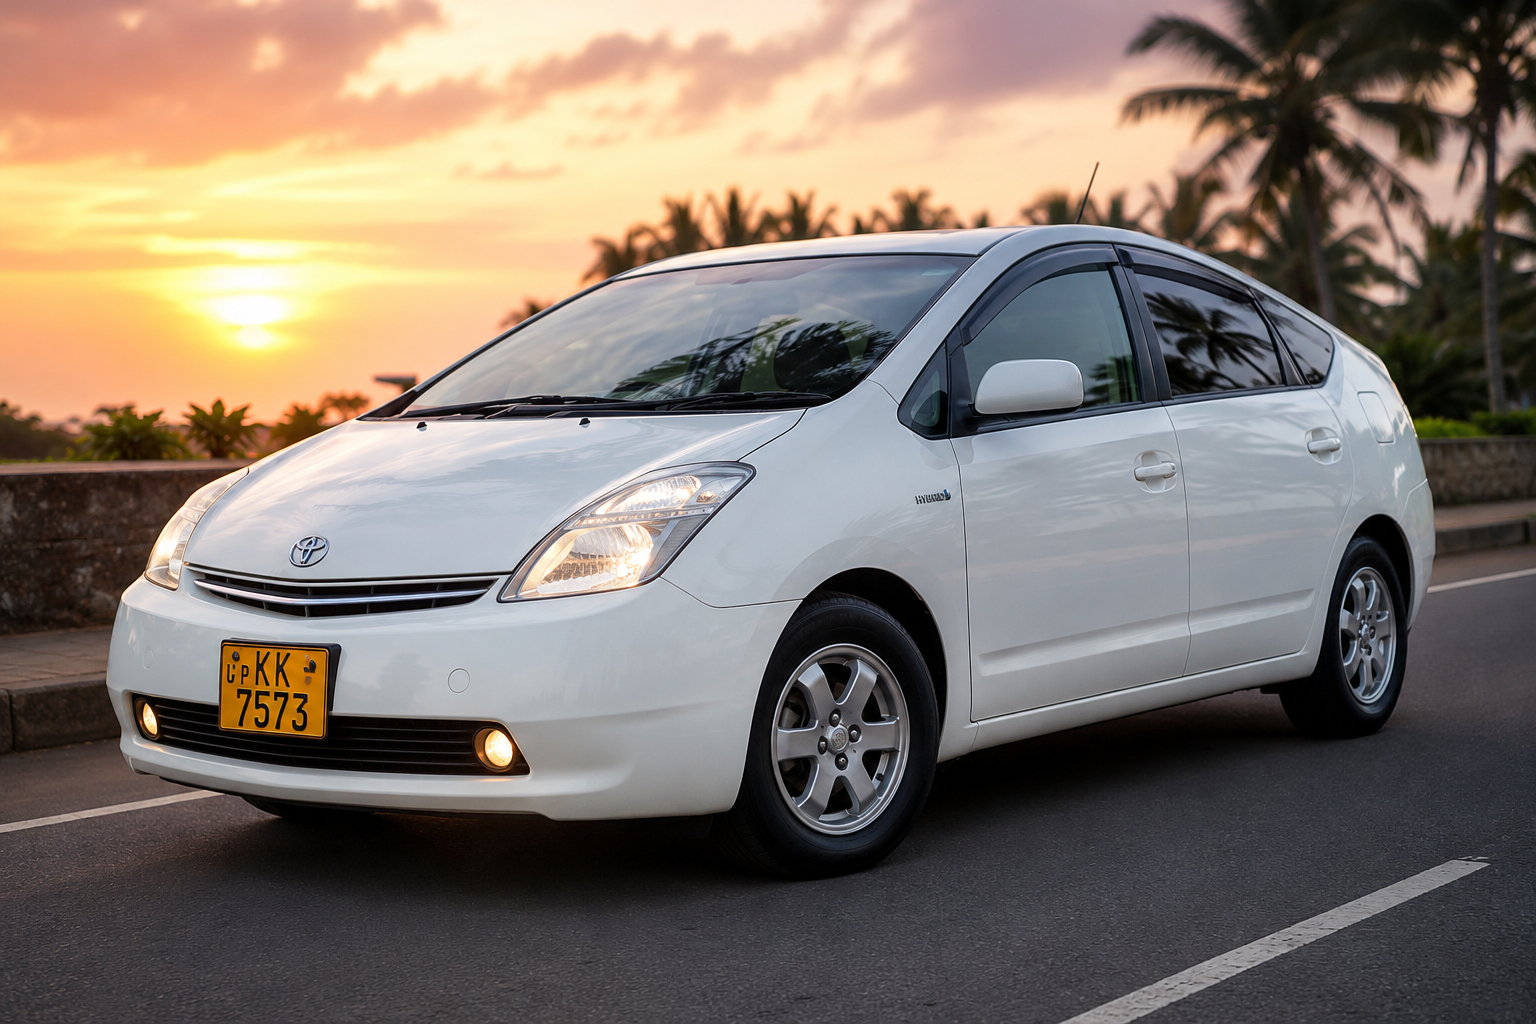
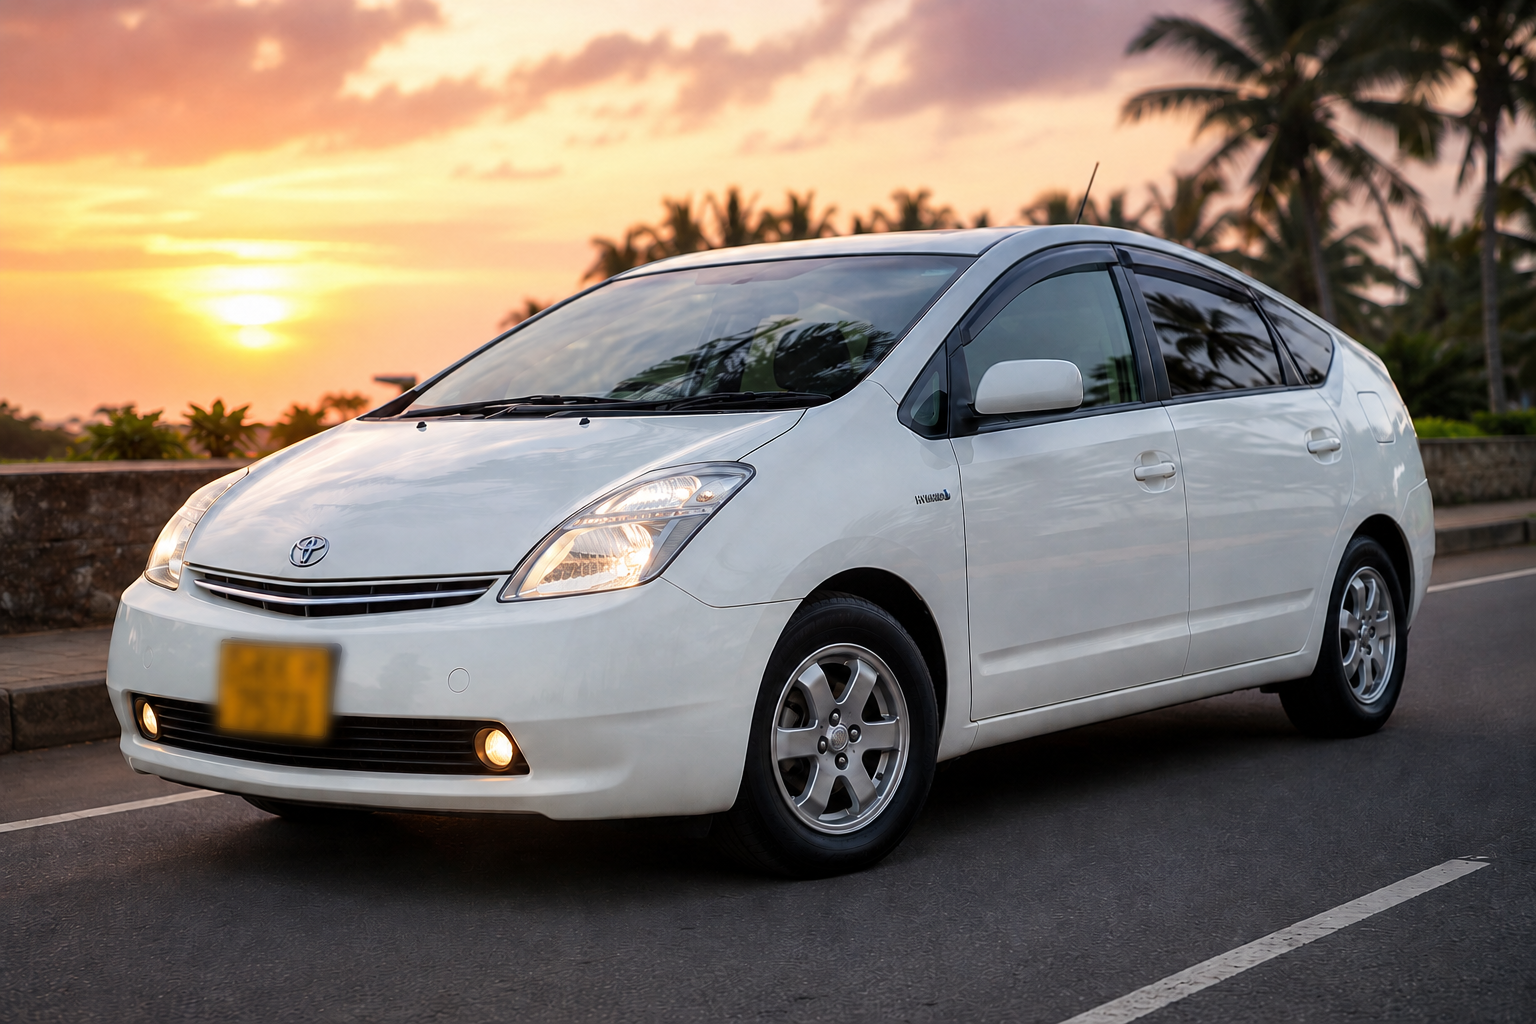
updated reviews

diff --git a/src/components/Testimonials.jsx b/src/components/Testimonials.jsx
@@ -1,82 +1,162 @@
+import { motion } from "framer-motion";
+import { Star } from "lucide-react";
+
 import customer1 from "../assets/customer1.jpeg";
 import customer2 from "../assets/customer2.jpeg";
+import customer3 from "../assets/customer3.jpg";
+import customer4 from "../assets/customer4.jpg";
 
-
-const reviews = [
+const testimonials = [
   {
-    name: "James Wilson",
+    name: "John Smith",
+    country: "Canada",
     image: customer1,
-    text: "Amazing airport pickup and very friendly driver. Highly recommended!",
+    review:
+      "Professional driver and excellent airport pickup experience. Very comfortable ride and great communication.",
   },
 
   {
-    name: "Sophia Brown",
+    name: "Emily Johnson",
+    country: "Germany",
     image: customer2,
-    text: "The Nilaveli tour experience was unforgettable and safe.",
+    review:
+      "Clean vehicle, smooth ride and very friendly service. Highly recommend for Sri Lanka travel.",
   },
 
+  {
+    name: "Daniel Roberts",
+    country: "United Kingdom",
+    image: customer3,
+    review:
+      "Amazing service from start to finish. The vehicle was spotless, comfortable, and always on time.",
+  },
+
+  {
+    name: "Sophia Williams",
+    country: "Australia",
+    image: customer4,
+    review:
+      "Very friendly driver and excellent communication throughout our trip. We felt safe and enjoyed every destination.",
+  },
 ];
 
 export default function Testimonials() {
   return (
-    <section className="py-24 px-6 bg-[#031926]">
+    <section className="relative py-20 sm:py-24 md:py-28 px-4 sm:px-6 overflow-hidden bg-gradient-to-br from-[#02131f] via-[#03263d] to-[#02131f]">
 
-      <div className="max-w-7xl mx-auto">
+      {/* GLOWS */}
+      <div className="absolute top-0 left-0 w-[300px] h-[300px] bg-cyan-400/20 blur-[120px] rounded-full" />
 
-        {/* Heading */}
-        <div className="text-center mb-16">
+      <div className="absolute bottom-0 right-0 w-[300px] h-[300px] bg-yellow-400/20 blur-[120px] rounded-full" />
 
-          <p className="text-yellow-400 uppercase tracking-[5px] mb-4">
-            Testimonials
+      <div className="relative z-10 max-w-7xl mx-auto">
+
+        {/* HEADING */}
+        <motion.div
+          initial={{ opacity: 0, y: 60 }}
+          whileInView={{ opacity: 1, y: 0 }}
+          viewport={{ once: true }}
+          transition={{ duration: 0.8 }}
+          className="text-center mb-14 sm:mb-20"
+        >
+
+          <p className="text-cyan-400 uppercase tracking-[4px] sm:tracking-[6px] mb-4 text-xs sm:text-sm font-semibold">
+            Customer Reviews
           </p>
 
-          <h2 className="text-4xl md:text-6xl font-black text-white">
-            Happy Travelers
+          <h2 className="text-3xl sm:text-5xl md:text-6xl font-black text-white leading-tight">
+            What Our Clients Say
           </h2>
 
-        </div>
+        </motion.div>
 
-        {/* Cards */}
-        <div className="grid md:grid-cols-3 gap-8">
+        {/* GRID */}
+        <div className="grid grid-cols-1 sm:grid-cols-2 gap-6 sm:gap-8">
 
-          {reviews.map((review, index) => (
-            <div
+          {testimonials.map((item, index) => (
+
+            <motion.div
               key={index}
-              className="bg-white/5 border border-white/10 rounded-[30px] p-8 hover:-translate-y-2 transition duration-300"
+              initial={{ opacity: 0, y: 70 }}
+              whileInView={{ opacity: 1, y: 0 }}
+              viewport={{ once: true }}
+              transition={{
+                duration: 0.7,
+                delay: index * 0.15,
+              }}
+              whileHover={{ y: -8 }}
+              className="
+                relative
+                bg-white/5
+                backdrop-blur-xl
+                border
+                border-white/10
+                rounded-3xl
+                p-6
+                sm:p-8
+                overflow-hidden
+                shadow-xl
+              "
             >
 
-              {/* Customer */}
-              <div className="flex items-center gap-4 mb-6">
+              {/* CARD GLOW */}
+              <div className="absolute -top-10 -right-10 w-32 h-32 bg-cyan-400/10 blur-3xl rounded-full" />
 
+              {/* TOP */}
+              <div className="flex items-center gap-4 mb-5">
+
+                {/* IMAGE */}
                 <img
-                  src={review.image}
-                  alt=""
-                  className="w-24 h-24 rounded-full object-cover border-2 border-yellow-400"
+                  src={item.image}
+                  alt={item.name}
+                  className="
+                    w-16
+                    h-16
+                    sm:w-20
+                    sm:h-20
+                    rounded-full
+                    object-cover
+                    border-2
+                    border-yellow-400
+                    shadow-lg
+                  "
                 />
 
+                {/* INFO */}
                 <div>
-                  <h3 className="text-xl font-bold text-white">
-                    {review.name}
+
+                  <h3 className="text-lg sm:text-xl font-black text-white">
+                    {item.name}
                   </h3>
 
-                  <p className="text-yellow-400 text-sm">
-                    Tourist Traveler
+                  <p className="text-cyan-400 text-sm sm:text-base">
+                    {item.country}
                   </p>
+
+                  {/* STARS */}
+                  <div className="flex gap-1 mt-2 text-yellow-400">
+
+                    {[...Array(5)].map((_, i) => (
+                      <Star
+                        key={i}
+                        size={16}
+                        fill="currentColor"
+                      />
+                    ))}
+
+                  </div>
+
                 </div>
 
               </div>
 
-              {/* Review */}
-              <p className="text-gray-300 leading-relaxed">
-                "{review.text}"
+              {/* REVIEW */}
+              <p className="text-gray-300 leading-relaxed text-sm sm:text-base">
+                “{item.review}”
               </p>
 
-              {/* Stars */}
-              <div className="flex gap-1 mt-6 text-yellow-400 text-xl">
-                ★★★★★
-              </div>
+            </motion.div>
 
-            </div>
           ))}
 
         </div>

diff --git a/src/components/TaxiAnimation.jsx b/src/components/TaxiAnimation.jsx
@@ -3,25 +3,67 @@ import taxi from "../assets/taxi.png";
 export default function TaxiAnimation() {
   return (
     <>
-      {/* Road */}
-      <div className="absolute bottom-24 left-0 w-full z-10 overflow-hidden">
-        <div className="flex animate-road gap-16">
-          {Array.from({ length: 20 }).map((_, index) => (
+      {/* ROAD */}
+      <div className="absolute bottom-20 sm:bottom-24 left-0 w-full z-10 overflow-hidden">
+
+        <div className="flex animate-road gap-10 sm:gap-16">
+          {Array.from({ length: 30 }).map((_, index) => (
             <div
               key={index}
-              className="w-24 h-2 bg-yellow-400 rounded-full"
+              className="w-16 sm:w-24 h-1.5 sm:h-2 bg-yellow-400 rounded-full opacity-80"
             />
           ))}
         </div>
+
       </div>
 
-      {/* Taxi */}
-      <div className="absolute bottom-28 left-[-400px] taxi-drive z-20">
+      {/* MAIN TAXI */}
+      <div className="absolute bottom-24 sm:bottom-28 left-[-400px] taxi-drive z-20">
+
         <img
           src={taxi}
           alt="Taxi"
-          className="w-[320px] md:w-[420px] drop-shadow-[0_20px_30px_rgba(250,204,21,0.5)]"
+          className="
+            w-[220px]
+            sm:w-[320px]
+            md:w-[420px]
+            drop-shadow-[0_20px_30px_rgba(250,204,21,0.5)]
+          "
         />
+
+      </div>
+
+      {/* SECOND TAXI */}
+      <div className="absolute bottom-44 sm:bottom-52 left-[-500px] taxi-drive-slow z-10 opacity-70">
+
+        <img
+          src={taxi}
+          alt="Taxi"
+          className="
+            w-[160px]
+            sm:w-[220px]
+            md:w-[300px]
+            scale-x-[-1]
+            drop-shadow-[0_10px_20px_rgba(34,211,238,0.4)]
+          "
+        />
+
+      </div>
+
+      {/* THIRD TAXI */}
+      <div className="absolute bottom-8 sm:bottom-12 left-[-600px] taxi-drive-fast z-30 opacity-90">
+
+        <img
+          src={taxi}
+          alt="Taxi"
+          className="
+            w-[140px]
+            sm:w-[180px]
+            md:w-[240px]
+            drop-shadow-[0_10px_20px_rgba(255,255,255,0.3)]
+          "
+        />
+
       </div>
     </>
   );